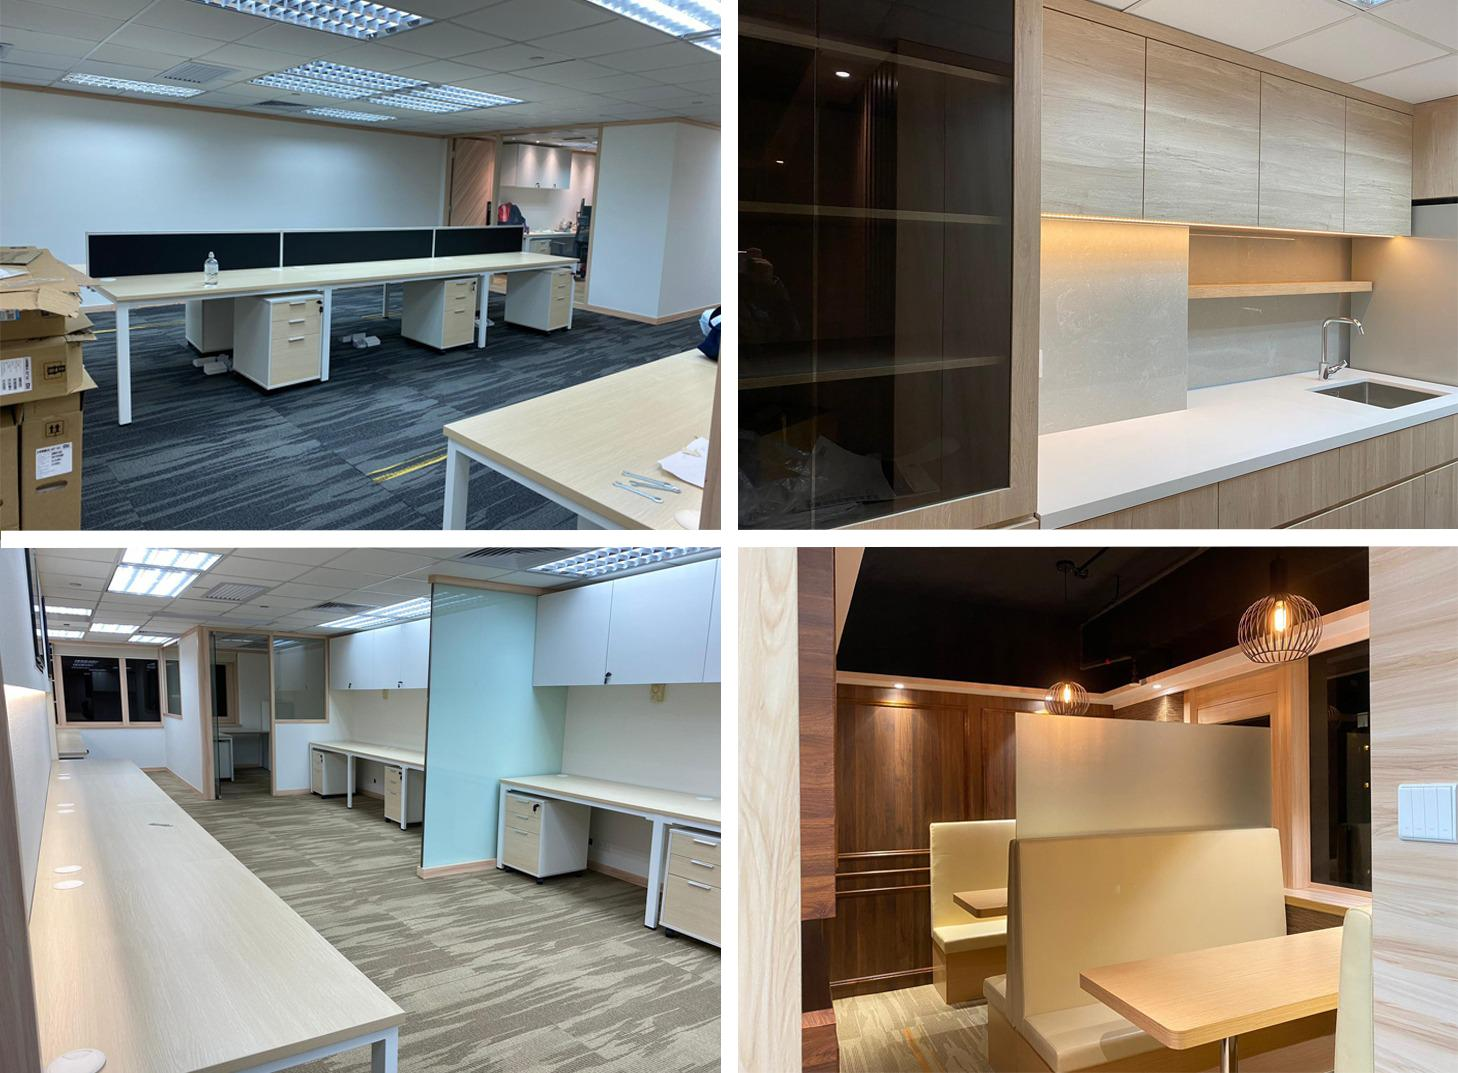
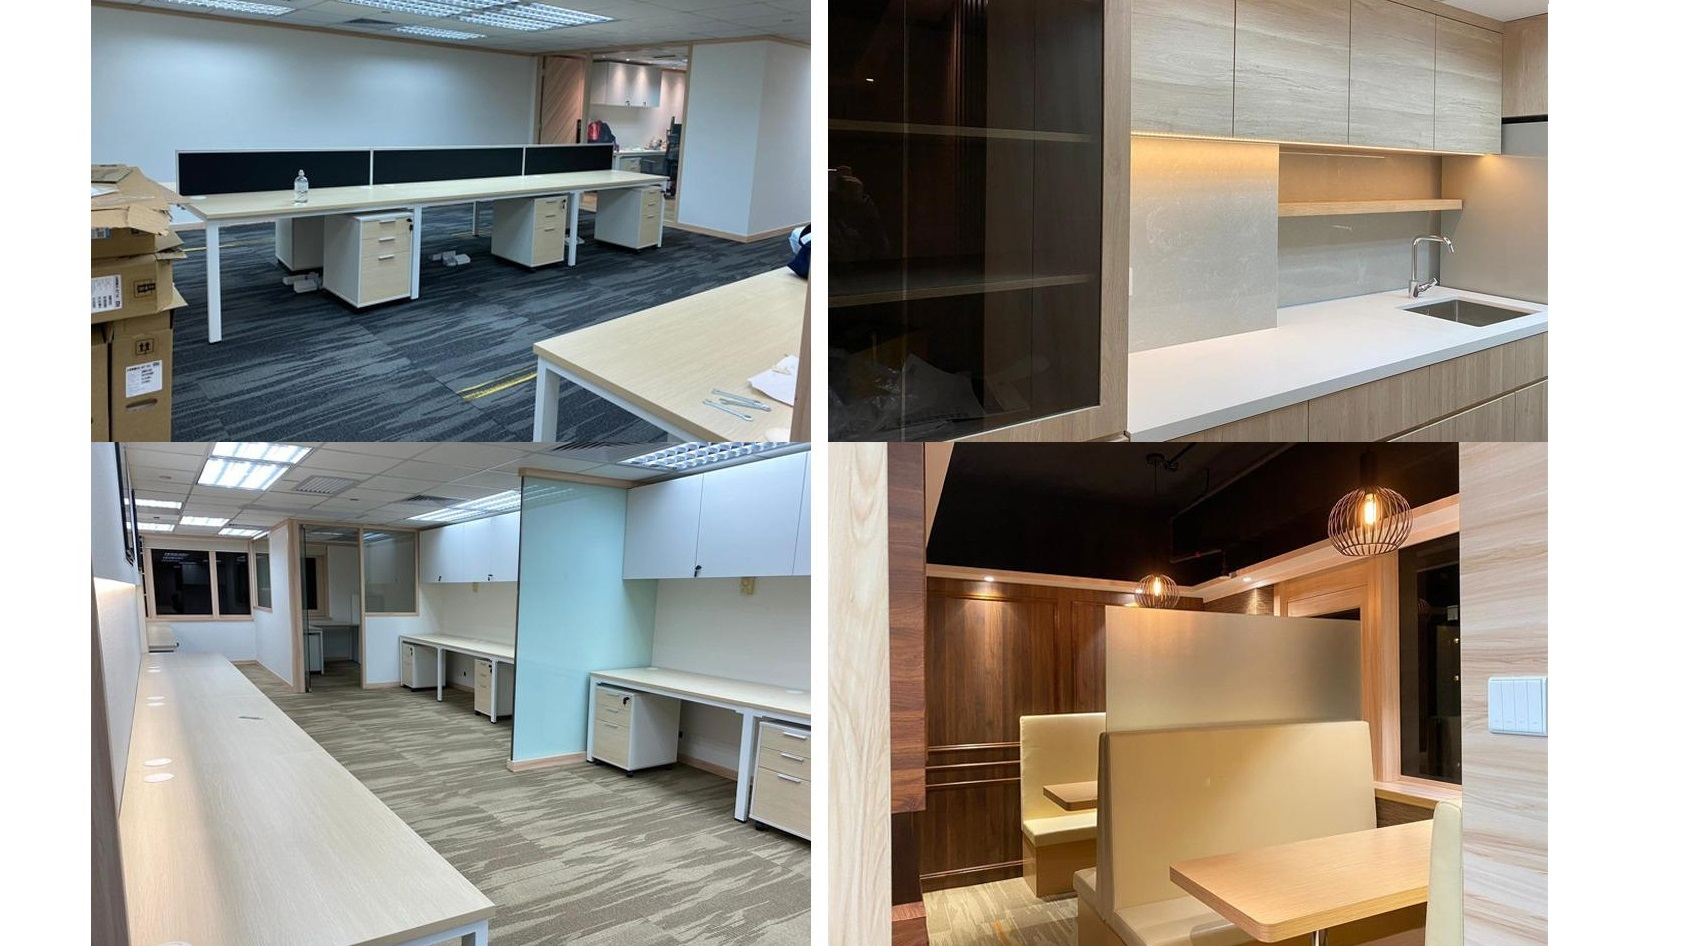
join us page

diff --git a/sub.careers/life_in_ocg.html b/sub.careers/life_in_ocg.html
@@ -206,65 +206,179 @@
     </div>
     <!--/.Sitemap-->
 
-    <div class="container-fluid">
+    <div class="container">
       <section>
-        <!--carousel-->
-        <div class="pt-4">
-          <div id="carouselExampleCaptions" class="carousel slide show-neighbors" data-ride="carousel">
-            <ol class="carousel-indicators">
-              <li data-target="#carouselExampleCaptions" data-slide-to="0" class="active"></li>
-              <li data-target="#carouselExampleCaptions" data-slide-to="1"></li>
-              <li data-target="#carouselExampleCaptions" data-slide-to="2"></li>
-            </ol>
-
-            <div class="carousel-inner">
-              <div class="carousel-item active">
-                <div class="item__third">
-                  <a href="img/joinus/birthday.jpg" data-lightbox="image-1">
-                    <img class="d-block w-100" src="img/joinus/birthday.jpg">
+        <div class="container-fluid mt-4">
+          <!--Section: Images-->
+          <section class="text-center">
+            <!-- Grid row1 -->
+            <div class="row">
+              <!-- Grid column1 -->
+              <div class="col-lg-8 col-md-8 col-sm-12 mb-3 px-2">
+                <div class="view overlay">
+                  <a href="img/joinus/0.jpg" data-lightbox="image-1">
+                    <img class="d-block w-100" src="img/joinus/linkedintraining.jpg">
+                    <div class="mask rgba-black-light text-white">
+                      <div class="mask-text text-left">
+                        <h4>Company Training with LinkedIn</h4>
+                        <p>We will have training with LinkedIn and JobsDB every year</p>
+                      </div>
+                    </div>
                   </a>
-                  <div class="carousel-caption d-none d-md-block">
-                    <h5>Birthday Party every Month</h5>
-                    <p></p>
-                  </div>
                 </div>
               </div>
-              <div class="carousel-item">
-                <div class="item__third">
-                  <a href="img/joinus/TMTLunch.jpg" data-lightbox="image-1">
-                    <img class="d-block w-100" src="img/joinus/TMTLunch.jpg">
+              <!-- Grid column2 -->
+              <div class="col-lg-4 col-md-4 col-sm-12 mb-3 px-2">
+                <div class="view overlay">
+                  <a href="img/joinus/disney.jpg" data-lightbox="image-1">
+                    <img class="d-block w-100" src="img/joinus/disney.jpg">
+                    <div class="mask rgba-black-light text-white">
+                      <div class="mask-text text-left">
+                        <h4>Halloween Event in Disneyland!</h4>
+                        <p>Everything is redesigned</p>
+                      </div>
+                    </div>
                   </a>
-                  <div class="carousel-caption d-none d-md-block">
-                    <h5>TMT Division Team Lunch :D</h5>
-                    <p></p>
-                  </div>
-                </div>
-              </div>
-              <div class="carousel-item">
-                <div class="item__third">
-                  <a href="img/joinus/Masks.jpg" data-lightbox="image-1">
-                    <img class="d-block w-100" src="img/joinus/Masks.jpg">
-                  </a>
-                  <div class="carousel-caption d-none d-md-block">
-                    <h5>Free Masks Giveaway to Staff</h5>
-                    <p>During the coronavirus 2020, we give away masks to ...</p>
-                  </div>
                 </div>
               </div>
             </div>
+            <!-- Grid row2 -->
+            <div class="row">
+              <!-- Grid column1 -->
+              <div class="col-lg-4 col-md-4 mb-3 px-2">
+                <div class="view overlay">
+                  <a href="img/joinus/AIR.jpg" data-lightbox="image-1">
+                    <img class="d-block w-100" src="img/joinus/AIR.jpg">
+                    <div class="mask rgba-black-light text-white">
+                      <div class="mask-text text-left">
+                        <h4>Brand New Office in WanChai!</h4>
+                        <p>Everything is redesigned</p>
+                      </div>
+                    </div>
+                  </a>
+                </div>
+              </div>
+              <!-- Grid column2 -->
+              <div class="col-lg-4 col-md-4 mb-3 px-2">
+                <div class="view overlay">
+                  <a href="img/joinus/TMTLunch.jpg" data-lightbox="image-1">
+                    <img class="d-block w-100" src="img/joinus/TMTLunch.jpg">
+                    <div class="mask rgba-black-light text-white">
+                      <div class="mask-text text-left">
+                        <h4>Brand New Office in WanChai!</h4>
+                        <p>Everything is redesigned</p>
+                      </div>
+                    </div>
+                  </a>
+                </div>
+              </div>
+              <!-- Grid column3 -->
+              <div class="col-lg-4 col-md-4 mb-3 px-2">
+                <div class="view overlay">
+                  <a href="img/joinus/bloomberg.jpg" data-lightbox="image-1">
+                    <img class="d-block w-100" src="img/joinus/bloomberg.jpg">
+                    <div class="mask rgba-black-light text-white">
+                      <div class="mask-text text-left">
+                        <h4>Bloomberg Channel Live</h4>
+                        <p>Everything is redesigned</p>
+                      </div>
+                    </div>
+                  </a>
+                </div>
+              </div>
+            </div>
+            <!-- Grid row3 -->
+            <div class="row">
+              <!-- Grid column1 -->
+              <div class="col-lg-4 col-md-4 mb-3 px-2">
+                <div class="view overlay">
+                  <a href="img/joinus/Masks.jpg" data-lightbox="image-1">
+                    <img class="d-block w-100" src="img/joinus/Masks.jpg">
+                    <div class="mask rgba-black-light text-white">
+                      <div class="mask-text text-left">
+                        <h4>Brand New Office in WanChai!</h4>
+                        <p>Everything is redesigned</p>
+                      </div>
+                    </div>
+                  </a>
+                </div>
+              </div>
+              <!-- Grid column2 -->
+              <div class="col-lg-8 col-md-8 mb-3 px-2">
+                <div class="view overlay">
+                  <a href="img/joinus/dinner.jpg" data-lightbox="image-1">
+                    <img class="d-block w-100" src="img/joinus/dinner1.jpg">
+                    <div class="mask rgba-black-light text-white">
+                      <div class="mask-text text-left">
+                        <h4>Brand New Office in WanChai!</h4>
+                        <p>Everything is redesigned</p>
+                      </div>
+                    </div>
+                  </a>
+                </div>
+              </div>
+            </div>
+            <!-- Grid row4 -->
+            <div class="row">
+              <!-- Grid column1 -->
+              <div class="col-lg-4 col-md-4 mb-3 px-2">
+                <div class="view overlay">
+                  <a href="img/joinus/cert.jpg" data-lightbox="image-1">
+                    <img class="d-block w-100" src="img/joinus/cert.jpg">
+                    <div class="mask rgba-black-light text-white">
+                      <div class="mask-text text-left">
+                        <h4>Brand New Office in WanChai!</h4>
+                        <p>Everything is redesigned</p>
+                      </div>
+                    </div>
+                  </a>
+                </div>
+              </div>
+              <!-- Grid column2 -->
+              <div class="col-lg-4 col-md-4 mb-3 px-2">
+                <div class="view overlay">
+                  <a href="img/joinus/birthday.jpg" data-lightbox="image-1">
+                    <img class="d-block w-100" src="img/joinus/birthday.jpg">
+                    <div class="mask rgba-black-light text-white">
+                      <div class="mask-text text-left">
+                        <h4>Monthly Birthday Party</h4>
+                        <p>Everything is redesigned</p>
+                      </div>
+                    </div>
+                  </a>
+                </div>
+              </div>
+              <!-- Grid column3 -->
+              <div class="col-lg-4 col-md-4 mb-3 px-2">
+                <div class="view overlay">
+                  <a href="img/joinus/decoration.jpg" data-lightbox="image-1">
+                    <img class="d-block w-100" src="img/joinus/decoration.jpg">
+                    <div class="mask rgba-black-light text-white">
+                      <div class="mask-text text-left">
+                        <h4>Monthly Birthday Party</h4>
+                        <p>Everything is redesigned</p>
+                      </div>
+                    </div>
+                  </a>
+                </div>
+              </div>
+            </div>
+          </section>
+          <!--/.Section: Images-->
 
-            <a class="carousel-control-prev" href="#carouselExampleCaptions" role="button" data-slide="prev">
-              <span class="carousel-control-prev-icon" aria-hidden="true"></span>
-              <span class="sr-only">Previous</span>
-            </a>
-            <a class="carousel-control-next" href="#carouselExampleCaptions" role="button" data-slide="next">
-              <span class="carousel-control-next-icon" aria-hidden="true"></span>
-              <span class="sr-only">Next</span>
-            </a>
-
+          <!-- Jumbotron -->
+          <div class="card card-image" style="background-image: url(img/banner/wallpaper.png);">
+            <div class="text-white text-center rgba-stylish-light py-5 px-4">
+              <div class="py-5">
+                <!-- Content -->
+                <h2 class="card-title h2 my-4 py-2">Wanna Join Us?</h2>
+                <p class="mb-4 pb-2 px-md-5 mx-md-5">The Best Recruitment Agency in Hong Kong</p>
+                <a class="btn peach-gradient"><i class="fas fa-graduation-cap left"></i> Check it out!</a>
+              </div>
+            </div>
           </div>
+          <!-- Jumbotron -->
         </div>
-        <!--carousel-->
       </section>
 
 

diff --git a/index.html b/index.html
@@ -21,6 +21,7 @@
   <link rel="stylesheet" href="css/font.css">
   <!-- Your custom styles (optional) -->
   <link rel="stylesheet" href="css/style.css">
+  <link rel="stylesheet" href="css/lightbox.css">
 </head>
 
 <body>
@@ -395,10 +396,13 @@
           <!-- Grid column1 -->
           <div class="col-lg-8 col-md-8 col-sm-12 mb-3 px-2">
             <div class="view overlay">
-              <img class="img img-fluid" src="https://dummyimage.com/1655x450/007aeb/4196e5" alt="">
-              <a>
-                <div class="mask d-flex rgba-black-light">
-                  <h4 class="align-self-end text-white">123</h4>
+              <a href="img/event/virus.jpg" data-lightbox="image-1">
+                <img class="d-block w-100" src="img/event/virus.jpg">
+                <div class="mask1 rgba-black-light text-white">
+                  <div class="mask-text text-white text-left">
+                    <h4>Be careful of Coronavirus!</h4>
+                    <p>See how Coronavirus changed the job market ... see details</p>
+                  </div>
                 </div>
               </a>
             </div>
@@ -406,10 +410,13 @@
           <!-- Grid column2 -->
           <div class="col-lg-4 col-md-4 col-sm-12 mb-3 px-2">
             <div class="view overlay">
-              <img class="img img-fluid" src="https://dummyimage.com/800x450/007aeb/4196e5" alt="">
-              <a>
-                <div class="mask flex-center rgba-black-light">
-                  <p class="">123</p>
+              <a href="img/event/buddha.jpg" data-lightbox="image-1">
+                <img class="d-block w-100" src="img/event/buddha.jpg">
+                <div class="mask rgba-black-light text-white">
+                  <div class="mask-text text-left">
+                    <h4>Halloween Event in Disneyland!</h4>
+                    <p>Everything is redesigned</p>
+                  </div>
                 </div>
               </a>
             </div>
@@ -418,12 +425,15 @@
         <!-- Grid row2 -->
         <div class="row">
           <!-- Grid column1 -->
-          <div class="col-lg-4 col-md-4 mb-3 px-2">
+          <div class="col-lg-4 col-md-4 col-sm-12 mb-3 px-2">
             <div class="view overlay">
-              <img class="img img-fluid" src="https://dummyimage.com/800x450/#007aeb/4196e5" alt="">
-              <a>
-                <div class="mask flex-center rgba-black-light">
-                  <p class="">123</p>
+              <a href="img/event/easter.png" data-lightbox="image-1">
+                <img class="d-block w-100" src="img/event/easter.png">
+                <div class="mask rgba-black-light text-white">
+                  <div class="mask-text text-left">
+                    <h4>Halloween Event in Disneyland!</h4>
+                    <p>Everything is redesigned</p>
+                  </div>
                 </div>
               </a>
             </div>
@@ -568,6 +578,7 @@
   <!-- SCRIPTS -->
   <!-- JQuery -->
   <script type="text/javascript" src="js/jquery-3.4.1.min.js"></script>
+  <script src="js/lightbox.js"></script>
   <!-- Bootstrap tooltips -->
   <script type="text/javascript" src="js/popper.min.js"></script>
   <!-- Bootstrap core JavaScript -->
@@ -582,10 +593,10 @@
     document.createElement("picture");
   </script>
   <script src="picturefill.js"></script>
+  <script src="js/main.js"></script>
   <script type="text/javascript">
     // Animations initialization
     new WOW().init();
   </script>
-</body>
 
 </html>

diff --git a/css/style.css b/css/style.css
@@ -290,6 +290,13 @@ nav.stroke ul li a:hover:after {
   font-size: 95%;
 }
 
+/*mask test*/
+.mask-text{
+  position: absolute;
+  bottom: 8px;
+  left: 16px;
+  font-size: 18px;
+}
 /*Carousel*/
 .show-neighbors {
 	 overflow: hidden;
@@ -306,20 +313,19 @@ nav.stroke ul li a:hover:after {
 }
  .show-neighbors .carousel-inner {
 	 width: 150%;
-	 left: -25%;
+	 left: 0%;
 }
  .show-neighbors .carousel-item-next:not(.carousel-item-left), .show-neighbors .carousel-item-right.active {
-	 -webkit-transform: translate3d(33%, 0, 0);
-	 transform: translate3d(33%, 0, 0);
+	 -webkit-transform: translate3d(25%, 0, 0);
+	 transform: translate3d(25%, 0, 0);
 }
  .show-neighbors .carousel-item-prev:not(.carousel-item-right), .show-neighbors .carousel-item-left.active {
-	 -webkit-transform: translate3d(-33%, 0, 0);
-	 transform: translate3d(-33%, 0, 0);
+	 -webkit-transform: translate3d(-25%, 0, 0);
+	 transform: translate3d(-25%, 0, 0);
 }
  .show-neighbors .item__third {
 	 float: left;
 	 position: relative;
 	/* captions can now be added */
-	 width: 33.33333333%;
+	 width: 25%;
 }
- 

diff --git a/css/mdb.css b/css/mdb.css
@@ -1580,7 +1580,8 @@ a.text-light:hover, a.text-light:focus {
   position: relative;
   overflow: hidden;
   cursor: default; }
-  .view .mask {
+  .view .mask,
+  .view .mask1{
     position: absolute;
     top: 0;
     right: 0;
@@ -1609,6 +1610,12 @@ a.text-light:hover, a.text-light:focus {
   transition: all 0.4s ease-in-out; }
   .overlay .mask:hover {
     opacity: 1; }
+
+    .overlay .mask1 {
+      opacity: 1;
+      transition: all 0.4s ease-in-out; }
+      .overlay .mask1:hover {
+        opacity: 1; }
 
 .zoom img, .zoom video {
   transition: all 0.2s linear; }
